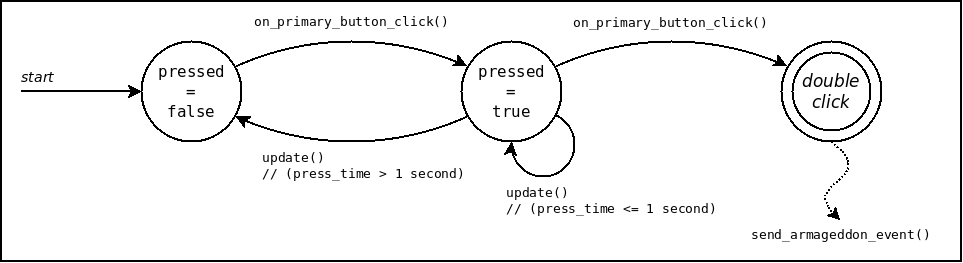
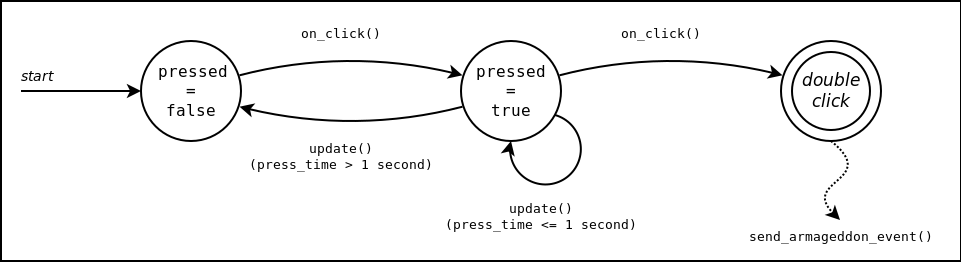
(>) doc

diff --git a/ceu/README.html b/ceu/README.html
@@ -114,7 +114,7 @@ TODO:
     - what about CPU,ROM,RAM?
 -->
 <h2 id="introduction">Introduction</h2>
-<p>This report documents the process of rewriting the video game Pingus [<a href="http://pingus.seul.org/"><img src="images/link_12.png" alt="X" /></a> from C++ to Céu [<a href="http://ceu-lang.org/"><img src="images/link_12.png" alt="X" /></a>,<a href="https://github.com/fsantanna/ceu/"><img src="images/link_12.png" alt="X" /></a>].</p>
+<p>This report documents the process of rewriting the video game Pingus [<a href="http://pingus.seul.org/"><img src="images/link_12.png" alt="X" /></a>] from C++ to Céu [<a href="http://ceu-lang.org/"><img src="images/link_12.png" alt="X" /></a>,<a href="https://github.com/fsantanna/ceu/"><img src="images/link_12.png" alt="X" /></a>].</p>
 <!--
 <img src="images/pingus-1.png" align="right" width="400"/>
 <img src="images/pingus-2.png" align="right" width="400"/>
@@ -122,7 +122,7 @@ TODO:
 <div class="images">
 <img src="images/pingus-2.png" width="350"/> <br> <a href="images/pingus-2.png"> Figure 1</a>: Pingus gameplay
 </div>
-<p>Pingus is an open-source <a href="https://github.com/Pingus/pingus/"><img src="images/link_12.png" alt="X" /></a>] clone of Lemmings [<a href="https://en.wikipedia.org/wiki/Lemmings_(video_game)"><img src="images/link_12.png" alt="X" /></a>], a puzzle-platformer video game.<br />
+<p>Pingus is an open-source [<a href="https://github.com/Pingus/pingus/"><img src="images/link_12.png" alt="X" /></a>] clone of Lemmings [<a href="https://en.wikipedia.org/wiki/Lemmings_(video_game)"><img src="images/link_12.png" alt="X" /></a>], a puzzle-platformer video game.<br />
 The objective of the game is to guide a group of penguins through a number of obstacles towards a designated exit [<a href="https://www.youtube.com/watch?v=MKrJgIFtJX0"><img src="images/link_12.png" alt="X" /></a>].</p>
 <p>Pingus is developed in object-oriented C++, the <em>lingua franca</em> of game development [<a href="http://gameprogrammingpatterns.com/introduction.html#about-the-sample-code"><img src="images/link_12.png" alt="X" /></a>]. The codebase is about 40.000 lines of code [<a href="https://github.com/Pingus/pingus/commit/7b255840c201d028fd6b19a2185ccf7df3a2cd6e"><img src="images/link_12.png" alt="X" /></a>], divided into the engine, level editor, auxiliary libraries, and the game logic itself.</p>
 <!--
@@ -205,7 +205,7 @@ if it enables our state-intensive code to scale to many threads, it’s still a 
 
 Claim: Transactions are the only plausible solution to concurrent mutable state
 -->
-<p>The main motivation for rewriting Pingus to Céu is to advocate its programming model as an expressive alternative for writing the game logic. In Pingus, the game logic accounts for almost half the size of the codebase (18173 from 39362 LoC, or 46%). <code>TODO: total rewritten, gains in %</code></p>
+<p>The main motivation for rewriting Pingus to Céu is to suggest structured synchronous reactive programming as an expressive alternative for writing video games. In Pingus, the game logic accounts for almost half the size of the codebase (18173 from 39362 LoC, or 46%). <code>TODO: total rewritten, gains in %</code></p>
 <p>Our approach was to identify <em>control-flow behaviors</em> in the game that cross successive reactions to events. As an example, detecting a double mouse click in the game consists of the first click, followed by a maximum amount of time, followed by a second click. Our hypothesis is that, in C++, these implementations involve callbacks manipulating state variables explicitly. We then rewrite these behaviors in Céu, using appropriate structured constructs. More concretely, we identify control-flow behaviors by inspecting the code looking for class members with &quot;suspicious names&quot; (e.g., <a href="https://github.com/Pingus/pingus/blob/7b255840c201d028fd6b19a2185ccf7df3a2cd6e/src/pingus/components/action_button.hpp#L36"><code>pressed</code></a>, <a href="https://github.com/Pingus/pingus/blob/7b255840c201d028fd6b19a2185ccf7df3a2cd6e/src/pingus/actions/bomber.hpp#L31"><code>particle_thrown</code></a>, <a href="https://github.com/Pingus/pingus/blob/7b255840c201d028fd6b19a2185ccf7df3a2cd6e/src/pingus/actions/bridger.hpp#L30"><code>mode</code></a>, or <a href="https://github.com/Pingus/pingus/blob/7b255840c201d028fd6b19a2185ccf7df3a2cd6e/src/pingus/actions/digger.hpp#L32"><code>delay_count</code></a>). Good chances are that variables with identifiers resembling verbs, status, or counters encode some form of control-flow progression that cross multiple callback invocations.</p>
 <!--
 , and redirect the instantiation and event dispatching to the new 
@@ -315,8 +315,6 @@ to write this report as follows:
 
 TODO: Selected Code Snippets
 TODO: state vars, code reduction para cada case
-
--------------------------------------------------------------------------------
 -->
 <p><a name="finite-state-machines"/></p>
 <h2 id="finite-state-machines">1) Finite State Machines</h2>
@@ -336,7 +334,7 @@ Let's consider the case of handling double clicks in the game.
 </div>
 <p>In Pingus, double clicking the <em>Armageddon button</em> at the bottom right of the screen literally explodes all pingus (Figure 3).</p>
 <!-- CPP-ARMAGEDDON -->
-<p>The code in C++ implements the class <code>ArmageddonButton</code> [<a href="https://github.com/Pingus/pingus/blob/7b255840c201d028fd6b19a2185ccf7df3a2cd6e/src/pingus/components/action_button.cpp#L24"><img src="images/link_12.png" alt="X" /></a>] with methods for rendering the button and handling its events. Here, we focus on detecting the double click, hiding unrelated parts with <code>&lt;...&gt;</code>:</p>
+<p>The C++ class <code>ArmageddonButton</code> [<a href="https://github.com/Pingus/pingus/blob/7b255840c201d028fd6b19a2185ccf7df3a2cd6e/src/pingus/components/action_button.cpp#L24"><img src="images/link_12.png" alt="X" /></a>] implements methods for rendering the button and handling events. Here, we focus on the double click detection, hiding unrelated parts with <code>&lt;...&gt;</code>:</p>
 <pre><code><b><font size="-1" color="#666666"> 1:</font></b>  ArmageddonButton::ArmageddonButton(<...>):
 <b><font size="-1" color="#666666"> 2:</font></b>      RectComponent(<...>),
 <b><font size="-1" color="#666666"> 3:</font></b>      <...>
@@ -372,20 +370,20 @@ Let's consider the case of handling double clicks in the game.
 <b><font size="-1" color="#666666">33:</font></b>          pressed = <b>true</b>;
 <b><font size="-1" color="#666666">34:</font></b>      }
 <b><font size="-1" color="#666666">35:</font></b>  }</code></pre>
-<p>The <code>update</code> (ln. 15-27) and <code>on_click</code> (ln. 29-35) are the relevant methods of the class and are examples of <em>short-lived callbacks</em>, which are pieces of code that execute in reaction to external input events. The callback <code>on_click</code> reacts to mouse clicks detected by the base class <code>RectComponent</code> (ln. 2), while <code>update</code> continuously reacts to the passage of time. Callbacks must be short lived because they should react to input as fast as possible to keep the game with real-time responsiveness.</p>
+<p>The methods <code>update</code> (ln. 15-27) and <code>on_click</code> (ln. 29-35) are examples of <em>short-lived callbacks</em>, which are pieces of code that execute in reaction to external input events. The callback <code>on_click</code> reacts to mouse clicks detected by the button base class <code>RectComponent</code> (ln. 2), while the callback <code>update</code> continuously reacts to the passage of time. Callbacks are short lived because they must react to input as fast as possible to keep the game with real-time responsiveness.</p>
 <div class="images">
 <img src="images/double-click.png" width="550"/> <br> <a href="images/double-click.png"> Figure 4</a>: State machine for the <em>Armageddon</em> double click
 </div>
-<p>The class first initializes the variable <code>pressed</code> to track the first click (ln. 4,33). It also initializes the variable <code>press_time</code> to count the time since the first click (ln. 5,18). If another click occurs within 1 second, the class signals the double click to the application (ln. 31). Otherwise, the <code>pressed</code> and <code>press_time</code> state variables are reset (ln. 20-21).</p>
+<p>The class first initializes the variable <code>pressed</code> to track the first click (ln. 4,33). It also initializes the variable <code>press_time</code> to count the time since the first click (ln. 5,18). If another click occurs within 1 second (ln. 19), the class signals the double click to the application (ln. 31). Otherwise, the <code>pressed</code> and <code>press_time</code> state variables are reset (ln. 20-21).</p>
 <p>Figure 4 illustrates how we can model the double-click behavior as a state machine. The circles represent the state of the variables in the class, while the arrows represent callback reactions that manipulate the state.</p>
-<p>Note how the accesses to these state variables are spread across the entire class. For instance, the distance between the initialization of <code>pressed</code> (ln. 4) and the last access to it (ln. 33) is over 40 lines in the original file [<a href="https://github.com/Pingus/pingus/blob/7b255840c201d028fd6b19a2185ccf7df3a2cd6e/src/pingus/components/action_button.cpp#L33-#L90"><img src="images/link_12.png" alt="X" /></a>]. Arguably, this dispersion of code across methods makes the understanding and maintenance of the double-click behavior more difficult. Also, even though the state variables are private, unrelated methods such as <code>draw</code> (ln. 11-13) can potentially access it.</p>
-<p>Because callbacks are short lived, the only way they can affect each other is by manipulating persisting member variables in the object. These <em>state variables</em> retain their values across multiple invocations and serve as a control mechanism across reaction to external events. As an example, callbacks <code>on_click</code> and <code>update</code> react independently but must agree on a common protocol to detect the double click:</p>
+<p>Note in the source code how the accesses to these state variables are spread across the entire class. For instance, the distance between the initialization of <code>pressed</code> (ln. 4) and the last access to it (ln. 33) is over 40 lines in the original file [<a href="https://github.com/Pingus/pingus/blob/7b255840c201d028fd6b19a2185ccf7df3a2cd6e/src/pingus/components/action_button.cpp#L33-#L90"><img src="images/link_12.png" alt="X" /></a>]. Arguably, this dispersion of code across methods makes the understanding and maintenance of the double-click behavior more difficult. Also, even though the state variables are private, unrelated methods such as <code>draw</code>, which is defined in middle of the class (ln. 11-13), can potentially access them.</p>
+<p>Because callbacks are short lived, the only way they can affect each other is by manipulating persisting member variables in the object. These <em>state variables</em> retain their values across multiple invocations and serve as a control mechanism across reactions to external events. For instance, callbacks <code>on_click</code> and <code>update</code> react independently but must agree on a common protocol to detect the double click:</p>
 <ul>
-<li>Callback <code>on_click</code> writes to <code>pressed</code> in the first click (ln. 30), and checks its state in further clicks (ln. 33).</li>
-<li>In the meantime, callback <code>update</code> also checks for <code>pressed</code> and may reset its state (ln. 17,20).</li>
+<li><code>on_click</code> writes to <code>pressed</code> in the first click (ln. 30), and checks its state in further clicks (ln. 33).</li>
+<li>In the meantime, <code>update</code> also checks for <code>pressed</code> and may reset its state (ln. 17,20).</li>
 </ul>
 <!-- CEU-ARMAGEDDON -->
-<p>Using an antagonistic approach, Céu provides structured constructs to deal with events, aiming to eradicate explicit manipulation of state variables for control-flow purposes. The equivalent code in Céu defines the class <code>ArmageddonButton</code> [<a href="https://github.com/fsantanna/pingus/blob/ceu/ceu/pingus/components/action_button.ceu#L6"><img src="images/link_12.png" alt="X" /></a>] as follows:</p>
+<p>Céu provides structured constructs to deal with events, aiming to eradicate explicit manipulation of state variables for control-flow purposes. The equivalent code in Céu defines the class <code>ArmageddonButton</code> [<a href="https://github.com/fsantanna/pingus/blob/ceu/ceu/pingus/components/action_button.ceu#L6"><img src="images/link_12.png" alt="X" /></a>] as follows:</p>
 <pre><code><b><font size="-1" color="#666666"> 1:</font></b>  <b>class</b> ArmageddonButton <b>with</b>
 <b><font size="-1" color="#666666"> 2:</font></b>      <...>
 <b><font size="-1" color="#666666"> 3:</font></b>  <b>do</b>

diff --git a/ceu/README.md b/ceu/README.md
@@ -582,10 +582,9 @@ screen literally explodes all pingus (@FIG_REF[[double-click-opt.gif]]).
 
 <!-- CPP-ARMAGEDDON -->
 
-The code in C++ implements the class `ArmageddonButton` 
-[[![X]][cpp-armageddon]] with methods for rendering the button and handling its 
-events.
-Here, we focus on detecting the double click, hiding unrelated parts with 
+The C++ class `ArmageddonButton` [[![X]][cpp-armageddon]] implements
+methods for rendering the button and handling events.
+Here, we focus on the double click detection, hiding unrelated parts with 
 `<...>`:
 
 @CODE_LINES[[language=CPP,
@@ -607,7 +606,7 @@ void ArmageddonButton::update (float delta) {   @update_1
     <...>
     if (pressed) {                              @pressed_4
         press_time += delta;                    @press_time_2
-        if (press_time > 1.0f) {
+        if (press_time > 1.0f) {                @check
             pressed = false;    // giving up, 1st click was     @reset_1
             press_time = 0;     //            too long ago      @reset_2
         }
@@ -626,16 +625,14 @@ void ArmageddonButton::on_click (<...>) {       @on_click_1
 }                                               @on_click_2
 ]]
 
-The `update` @NN(update_1,-,update_2) and `on_click` 
-@NN(on_click_1,-,on_click_2)
-are the relevant methods of the class and are examples of *short-lived 
-callbacks*, which are pieces of code that execute in reaction to external input 
-events.
-The callback `on_click` reacts to mouse clicks detected by the base class 
-`RectComponent` @NN(base_class), while `update` continuously reacts to the 
-passage of time.
-Callbacks must be short lived because they should react to input as fast as 
-possible to keep the game with real-time responsiveness.
+The methods `update` @NN(update_1,-,update_2) and `on_click` 
+@NN(on_click_1,-,on_click_2) are examples of *short-lived callbacks*, which are
+pieces of code that execute in reaction to external input events.
+The callback `on_click` reacts to mouse clicks detected by the button base
+class `RectComponent` @NN(base_class), while the callback `update` continuously
+reacts to the passage of time.
+Callbacks are short lived because they must react to input as fast as possible
+to keep the game with real-time responsiveness.
 
 @FIG_NEW(double-click.png,
          State machine for the *Armageddon* double click,
@@ -645,8 +642,8 @@ The class first initializes the variable `pressed` to track the first click
 @NN(pressed_1,,pressed_2).
 It also initializes the variable `press_time` to count the time since the first 
 click @NN(press_time_1,,press_time_2).
-If another click occurs within 1 second, the class signals the double click to 
-the application @NN(armageddon).
+If another click occurs within 1 second @NN(check), the class signals the
+double click to the application @NN(armageddon).
 Otherwise, the `pressed` and `press_time` state variables are reset 
 @NN(reset_1,-,reset_2).
 
@@ -655,33 +652,33 @@ behavior as a state machine.
 The circles represent the state of the variables in the class, while the arrows 
 represent callback reactions that manipulate the state.
 
-Note how the accesses to these state variables are spread across the entire 
-class.
+Note in the source code how the accesses to these state variables are spread
+across the entire class.
 For instance, the distance between the initialization of `pressed` 
 @NN(pressed_1) and the last access to it @NN(pressed_2) is over 40 lines in the 
 original file [[![X]][cpp-armageddon-2]].
 Arguably, this dispersion of code across methods makes the understanding and 
 maintenance of the double-click behavior more difficult.
 Also, even though the state variables are private, unrelated methods such as 
-`draw` @NN(draw_1,-,draw_2) can potentially access it.
+`draw`, which is defined in middle of the class @NN(draw_1,-,draw_2), can
+potentially access them.
 
 Because callbacks are short lived, the only way they can affect each other is 
 by manipulating persisting member variables in the object.
 These *state variables* retain their values across multiple invocations and 
-serve as a control mechanism across reaction to external events.
-As an example, callbacks `on_click` and `update` react independently but must 
+serve as a control mechanism across reactions to external events.
+For instance, callbacks `on_click` and `update` react independently but must 
 agree on a common protocol to detect the double click:
 
-* Callback `on_click` writes to `pressed` in the first click @NN(pressed_3), 
-  and checks its state in further clicks @NN(pressed_2).
-* In the meantime, callback `update` also checks for `pressed` and may reset 
-  its state @NN(pressed_4,,reset_1).
+* `on_click` writes to `pressed` in the first click @NN(pressed_3), and checks
+  its state in further clicks @NN(pressed_2).
+* In the meantime, `update` also checks for `pressed` and may reset its state
+  @NN(pressed_4,,reset_1).
 
 <!-- CEU-ARMAGEDDON -->
 
-Using an antagonistic approach, Céu provides structured constructs to deal with 
-events, aiming to eradicate explicit manipulation of state variables for 
-control-flow purposes.
+Céu provides structured constructs to deal with events, aiming to eradicate
+explicit manipulation of state variables for control-flow purposes.
 The equivalent code in Céu defines the class `ArmageddonButton` 
 [[![X]][ceu-armageddon]] as follows:
 
